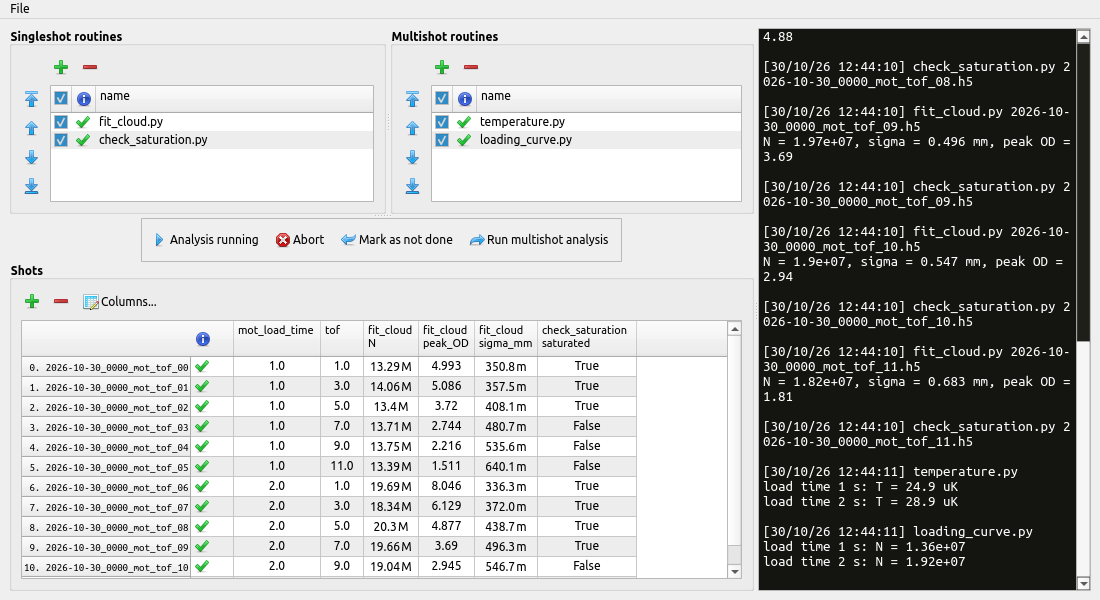
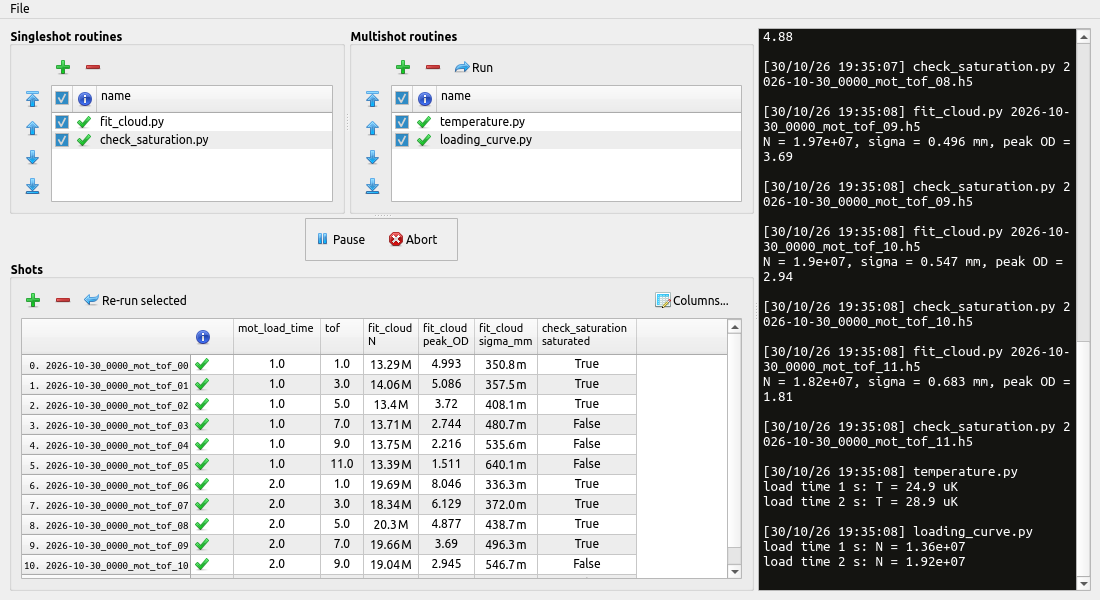
Retake the screenshots and name the controls in the introduction
Currently the screenshot in the introduction of the docs and the one in the
README show the analysis controls as they were before #191. This commit retakes
both with the current master, and the list in the introduction now names the
Pause, Abort, Re-run selected, Run and Columns buttons, since the numbered
labels of two of them have moved.

Claude-Session: https://claude.ai/code/session_01CEhjRdNMHVecK9eJ6c3cQ2

diff --git a/docs/source/introduction.rst b/docs/source/introduction.rst
@@ -42,17 +42,17 @@ Here's a screenshot of **lyse**, with two single-shot and two multi-shot routine
 
 #. Here is where multi-shot routines can be added or removed, in the same way as single shot routines.
 
-#. Allows pausing of analysis. **lyse** by default will run all single-shot routines on a shot when it arrives (either from BLACS or having been manually added). After all the shots have been processed, only then will the multi-shot routines be executed. So if you load ten shots in quickly, the multi-shot routines won't run until they've all been processed by the single-shot routines. However most of the time there will be sufficient delay in between shots arriving that multi-shot routines will be executed pretty much every time a new shot arrives. If a single-shot routine raises an exception, analysis is paused, and the single-shot routines after it do not run on that shot. If a multi-shot routine raises an exception, the other multi-shot routines still run, and analysis is not paused.
+#. *Pause* pauses analysis while it is pressed in. **lyse** by default will run all single-shot routines on a shot when it arrives (either from BLACS or having been manually added). After all the shots have been processed, only then will the multi-shot routines be executed. So if you load ten shots in quickly, the multi-shot routines won't run until they've all been processed by the single-shot routines. However most of the time there will be sufficient delay in between shots arriving that multi-shot routines will be executed pretty much every time a new shot arrives. If a single-shot routine raises an exception, analysis is paused, and the single-shot routines after it do not run on that shot. If a multi-shot routine raises an exception, the other multi-shot routines still run, and analysis is not paused.
 
-#. Pauses analysis and interrupts the routines that are running.
+#. *Abort* pauses analysis and interrupts the routines that are running.
 
-#. If you want to re-run single-shot analyses on some shots, select them and click this button. They'll then be processed in order.
+#. If you want to re-run single-shot analyses on some shots, select them and click *Re-run selected*. They'll then be processed in order.
 
-#. This will rerun all the multi-shot analyses, even if analysis is paused.
+#. *Run* runs all the multi-shot routines at once, even if analysis is paused.
 
 #. Adds shots with a file browser, and removes the selected shots.
 
-#. Chooses which columns of the shots table are shown.
+#. *Columns...* chooses which columns of the shots table are shown.
 
 #. Here is where shots appear, either having been sent by BLACS or having been added manually. There is a column for each global and each of the results (as saved by single-shot routines) present in the shots, and the icon in the first column shows whether all single-shot routines have run successfully on the shot. The data displayed here, including the columns that are hidden, represents the entirety of what is available to multi-shot routines via the API provided by **lyse**.
 
